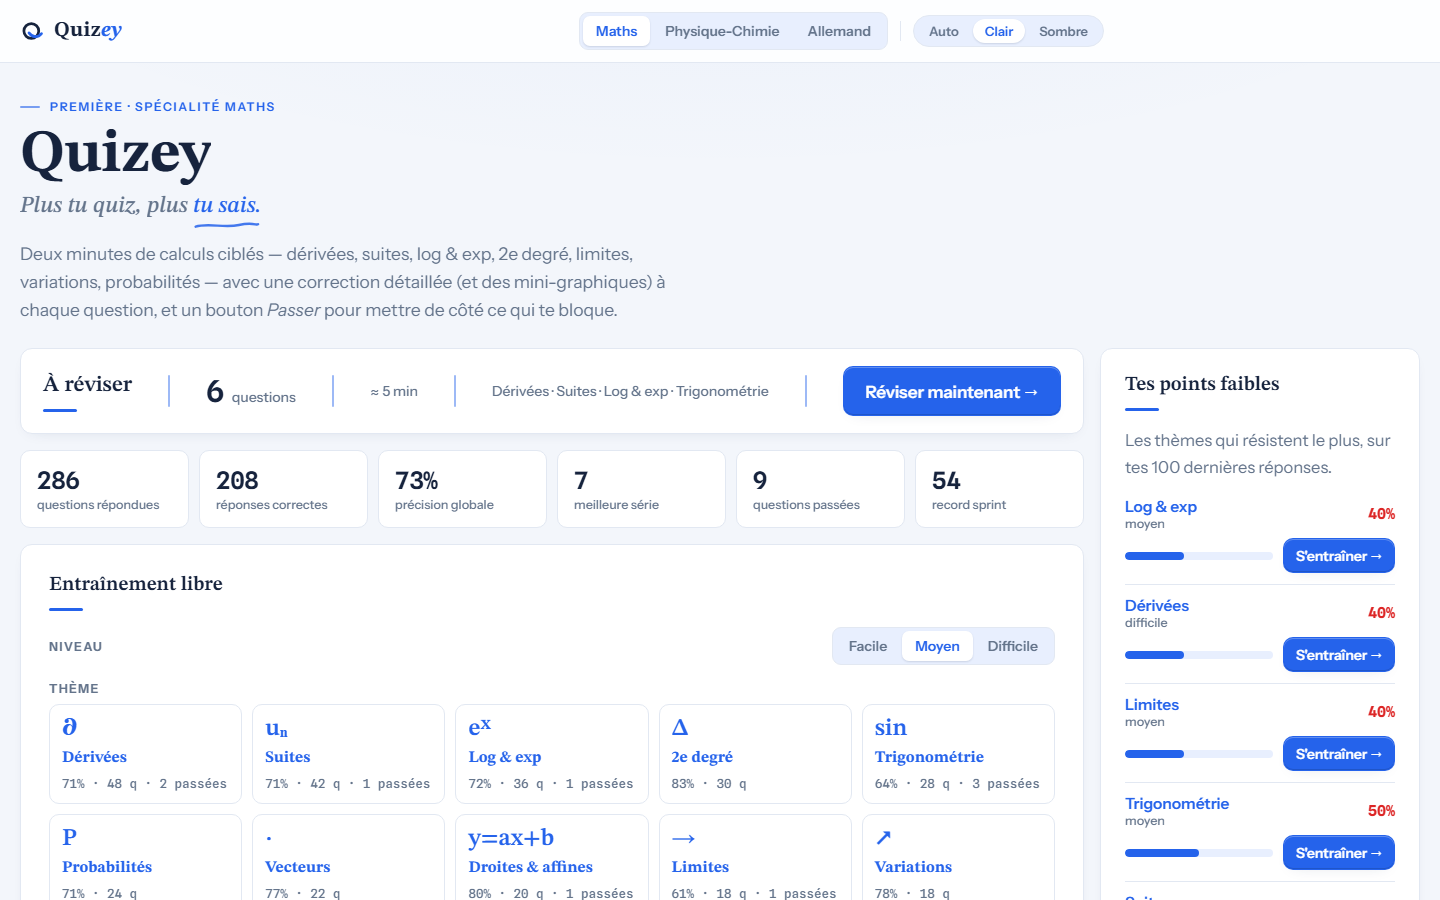
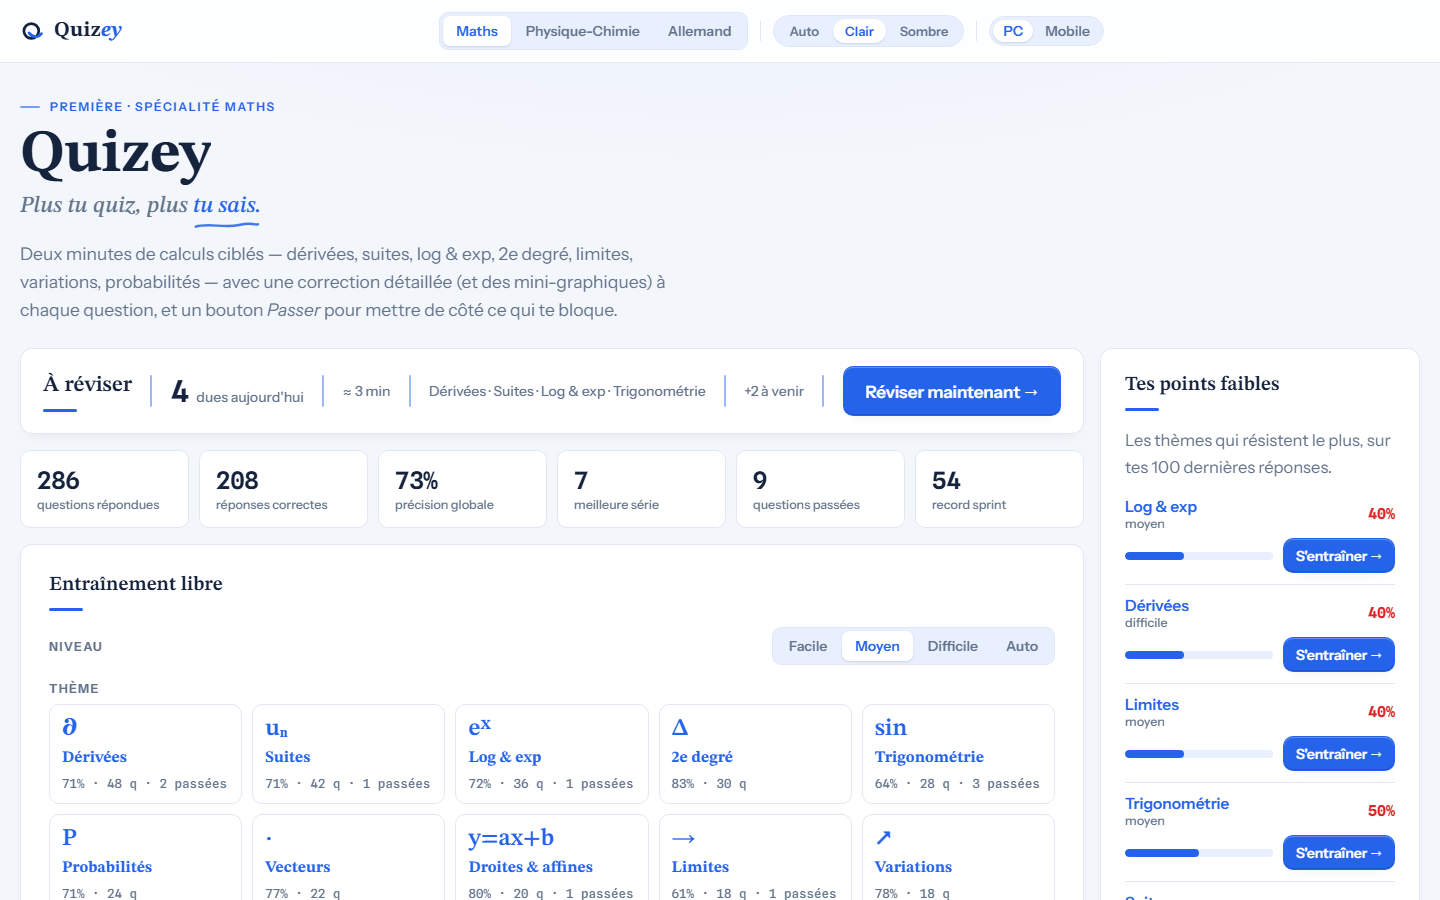
README : registre sérieux (vouvoiement) + captures régénérées — carte « À réviser » en répétition espacée, bouton Auto

diff --git a/README.md b/README.md
@@ -2,47 +2,47 @@
 
 **Plus tu quiz, plus tu sais.**
 
-Quizey c'est un fichier `.html` pour réviser sa Première : maths (spécialité), physique-chimie, allemand A2. Aucune installation, aucun compte, aucun internet — tu l'ouvres et tu t'entraînes.
+Quizey est un fichier `.html` autonome pour la révision en classe de Première : mathématiques (spécialité), physique-chimie et allemand (niveau A2). Aucune installation, aucun compte, aucune connexion internet requise : vous l'ouvrez dans votre navigateur et vous vous entraînez.
 
-Particularité : chaque question est générée au moment où tu la vois, donc tu ne vois jamais deux fois les mêmes nombres. Et chaque réponse arrive avec la méthode, pas juste « c'est la B ».
+Chaque question est générée à l'affichage : vous ne voyez donc jamais deux fois les mêmes nombres. Chaque réponse s'accompagne de la méthode de résolution, et non d'un simple indicatif.
 
-Tes progrès, tes points faibles, tes records : tout reste sur ta machine. Personne ne voit jamais ça.
+Vos progrès, vos points faibles et vos records demeurent stockés sur votre machine. Aucune donnée n'est transmise.
 
 ![L'accueil — matière maths : la carte « À réviser », les stats, les points faibles](img/accueil-maths.png)
 
-## Installation — 2 choix
+## Installation — deux possibilités
 
-**Choix 1 · le terminal.** Dans ta console :
+**Option 1 · via le terminal.** Dans votre console :
 
 ```bash
 git clone https://github.com/Cidbzh/Quizey.git
 ```
 
-Double-clique sur `Quizey/Quizey.html`.
+Puis double-cliquez sur `Quizey/Quizey.html`.
 
-**Choix 2 · le navigateur.** Va sur la page [Releases](https://github.com/Cidbzh/Quizey/releases) et télécharge le fichier (le `.html` direct s'il y est, sinon « Source code (zip) »). Dézippe, double-clique sur `Quizey.html`.
+**Option 2 · via le navigateur.** Accédez à la page [Releases](https://github.com/Cidbzh/Quizey/releases) et téléchargez le fichier (le `.html` direct s'il y figure, sinon « Source code (zip) »). Décompressez, puis double-cliquez sur `Quizey.html`.
 
-Une fois le fichier en main, il t'appartient : sur une clé USB, à la médiathèque, au labo du lycée, sur n'importe quel PC, avec ou sans internet.
+Une fois le fichier en votre possession, il vous appartient : sur une clé USB, à la médiathèque, au laboratoire du lycée, sur n'importe quel poste, avec ou sans connexion.
 
 ## Comment s'entraîner
 
-**Entraînement libre** — tu choisis le thème et le niveau (facile, moyen, difficile) et tu avances à ton rythme. **Auto** laisse Quizey doser la difficulté pour toi : selon tes dernières réponses sur le chapitre, il te sert le niveau qui te défie sans te rouler dessus.
+**Entraînement libre** — sélectionnez un thème et un niveau (facile, moyen, difficile), puis progressez à votre rythme. Le mode **Auto** (difficulté adaptative) ajuste automatiquement le niveau proposé en fonction de vos dernières réponses sur le chapitre, afin de vous servir un exercice exigeant sans être rédhibitoire.
 
-**Sprint 60 s** — les questions s'enchaînent, les séries montent, le record s'écrit.
+**Sprint 60 s** — les questions s'enchaînent sans interruption, les séries de bonnes réponses s'accumulent et le record est mis à jour.
 
-**À réviser** — les questions que tu rates reviennent, mais au bon moment : une bonne réponse les repousse plus loin (demain, puis 3 jours, 7 jours, 2 semaines), une erreur les ramène vite. Après 5 bonnes réponses d'affilée, une question est **acquise** et sort de la liste. La carte d'accueil t'affiche combien de révisions sont **dues aujourd'hui**.
+**À réviser** — Quizey met en œuvre la méthode d'apprentissage par **répétition espacée** : chaque question ratée est replanifiée selon un intervalle croissant, une bonne réponse la repousse progressivement (demain, puis 3 jours, 7 jours, 2 semaines) tandis qu'une erreur la ramène rapidement. Après cinq réponses correctes consécutives, une question est considérée comme **acquise** et retirée de la liste de révision. La carte d'accueil indique le nombre de révisions **échéues pour la journée**.
 
-Et le bouton « Passer » ne te pénalise pas : la question revient juste plus tard.
+Le bouton « Passer » n'est pénalisant à aucun titre : la question concernée est simplement remise en file d'attente.
 
 ![Une question de trigonométrie — son mini-visuel, puis la correction détaillée](img/question-correction.png)
 
-La correction montre la méthode, pas seulement le résultat — et quand la question s'y prête, un mini-visuel (courbe, schéma, graphe) est dessiné à côté du texte.
+La correction présente la méthode de résolution, et non uniquement le résultat ; lorsque la question s'y prête, un visuel (courbe, schéma, graphique) accompagne le texte.
 
-Quizey repère aussi tes **points faibles** (thème × niveau, sur tes 100 dernières réponses) et te propose un entraînement ciblé sur chacun.
+Quizey identifie en outre vos **points faibles** (croisement thème × niveau, sur vos 100 dernières réponses) et propose un entraînement ciblé sur chacun.
 
 ## Contenu
 
-- **Maths** (spécialité) — 10 thèmes : dérivées, suites, log & exp, 2ᵉ degré, trigonométrie, probabilités, vecteurs, droites & affines, limites, variations
+- **Mathématiques** (spécialité) — 10 thèmes : dérivées, suites, log & exp, 2ᵉ degré, trigonométrie, probabilités, vecteurs, droites & affines, limites, variations
 - **Physique-chimie** — 8 thèmes : mécanique & Newton, forces & champs, énergie, quantités de matière, stœchiométrie & état final, cinétique, ondes & lumière, électricité
 - **Allemand A2** — 6 thèmes, 100 % QCM : vocabulaire, conjugaison, articles, nombres · dates · heures, phrases utiles, mini-traductions
 
@@ -50,7 +50,7 @@ Les statistiques de chaque matière sont indépendantes.
 
 ![Le mode allemand A2 — 100 % QCM](img/accueil-allemand.png)
 
-Note : Quizey est Open Source (Gratuit et sans contrainte d'utilisation)
+Note : Quizey est Open Source (gratuit et sans contrainte d'utilisation).
 
 ## Licence
 
